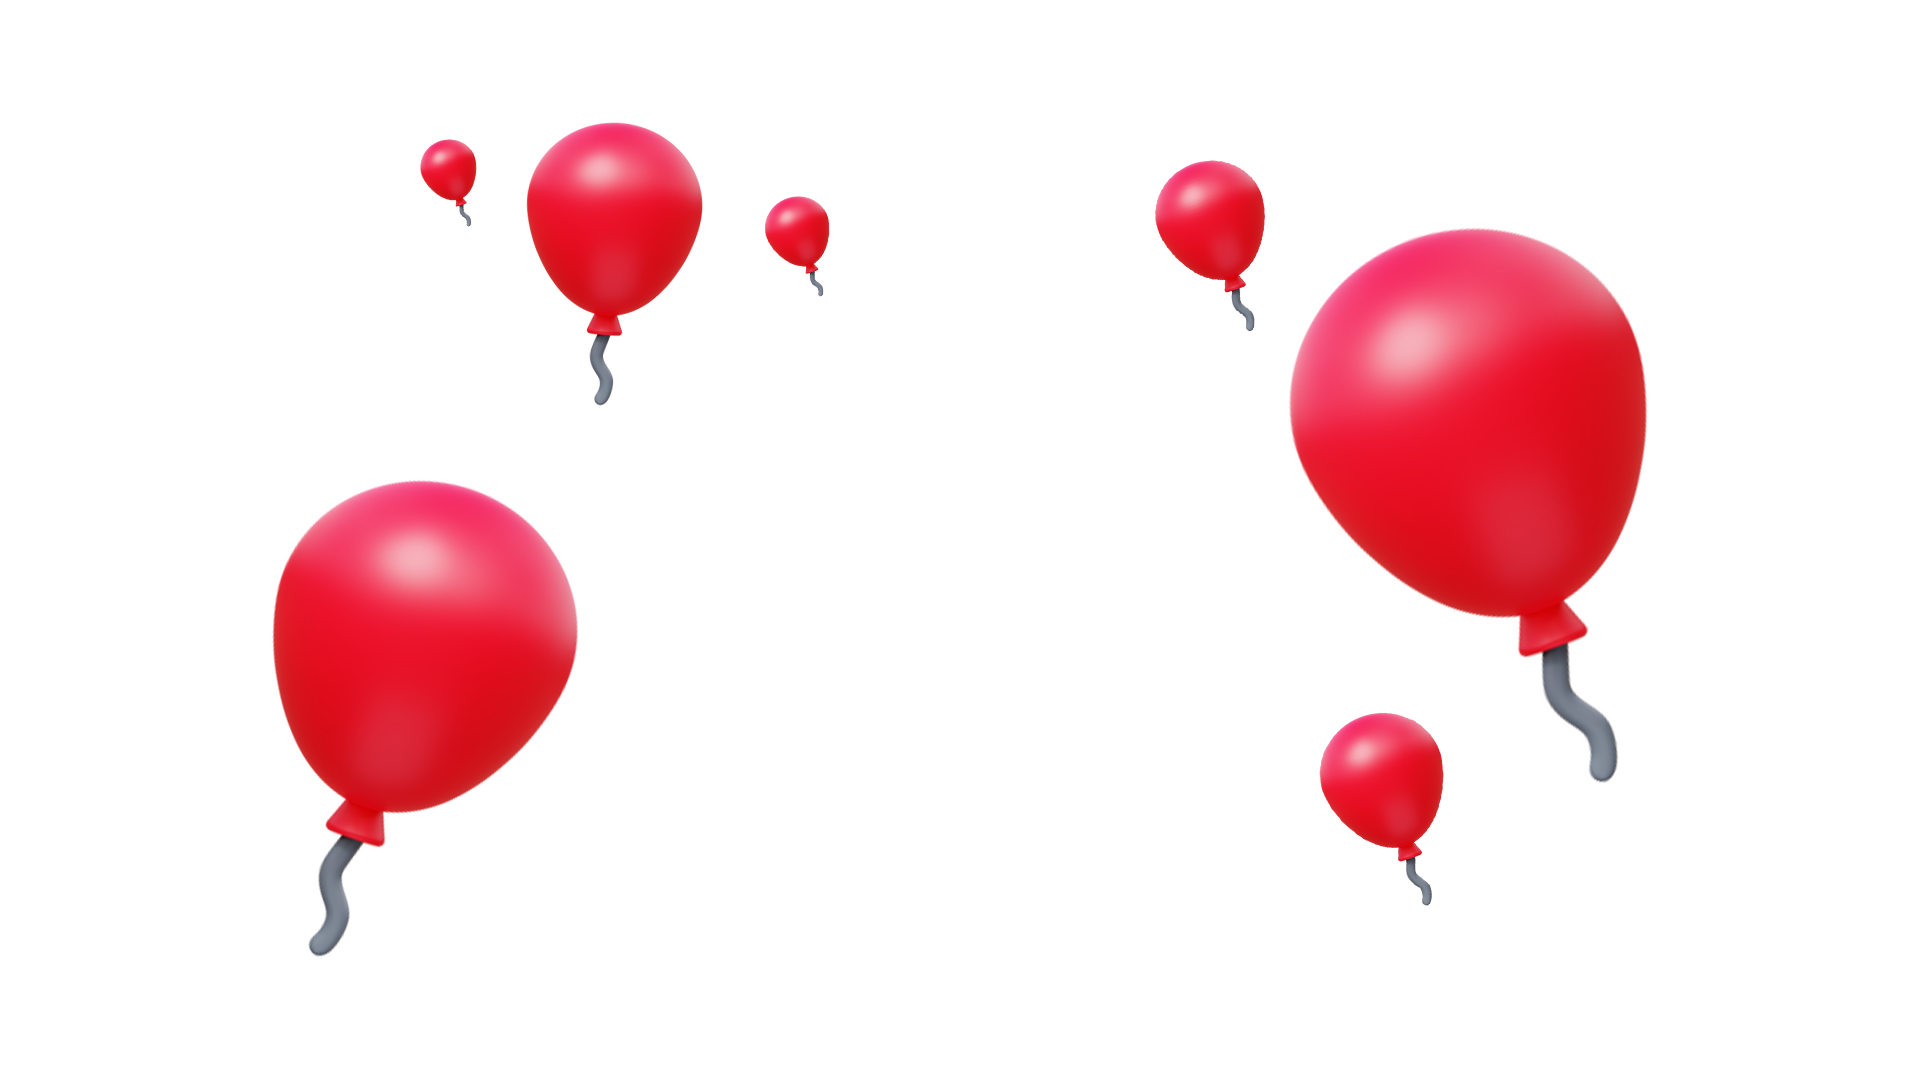
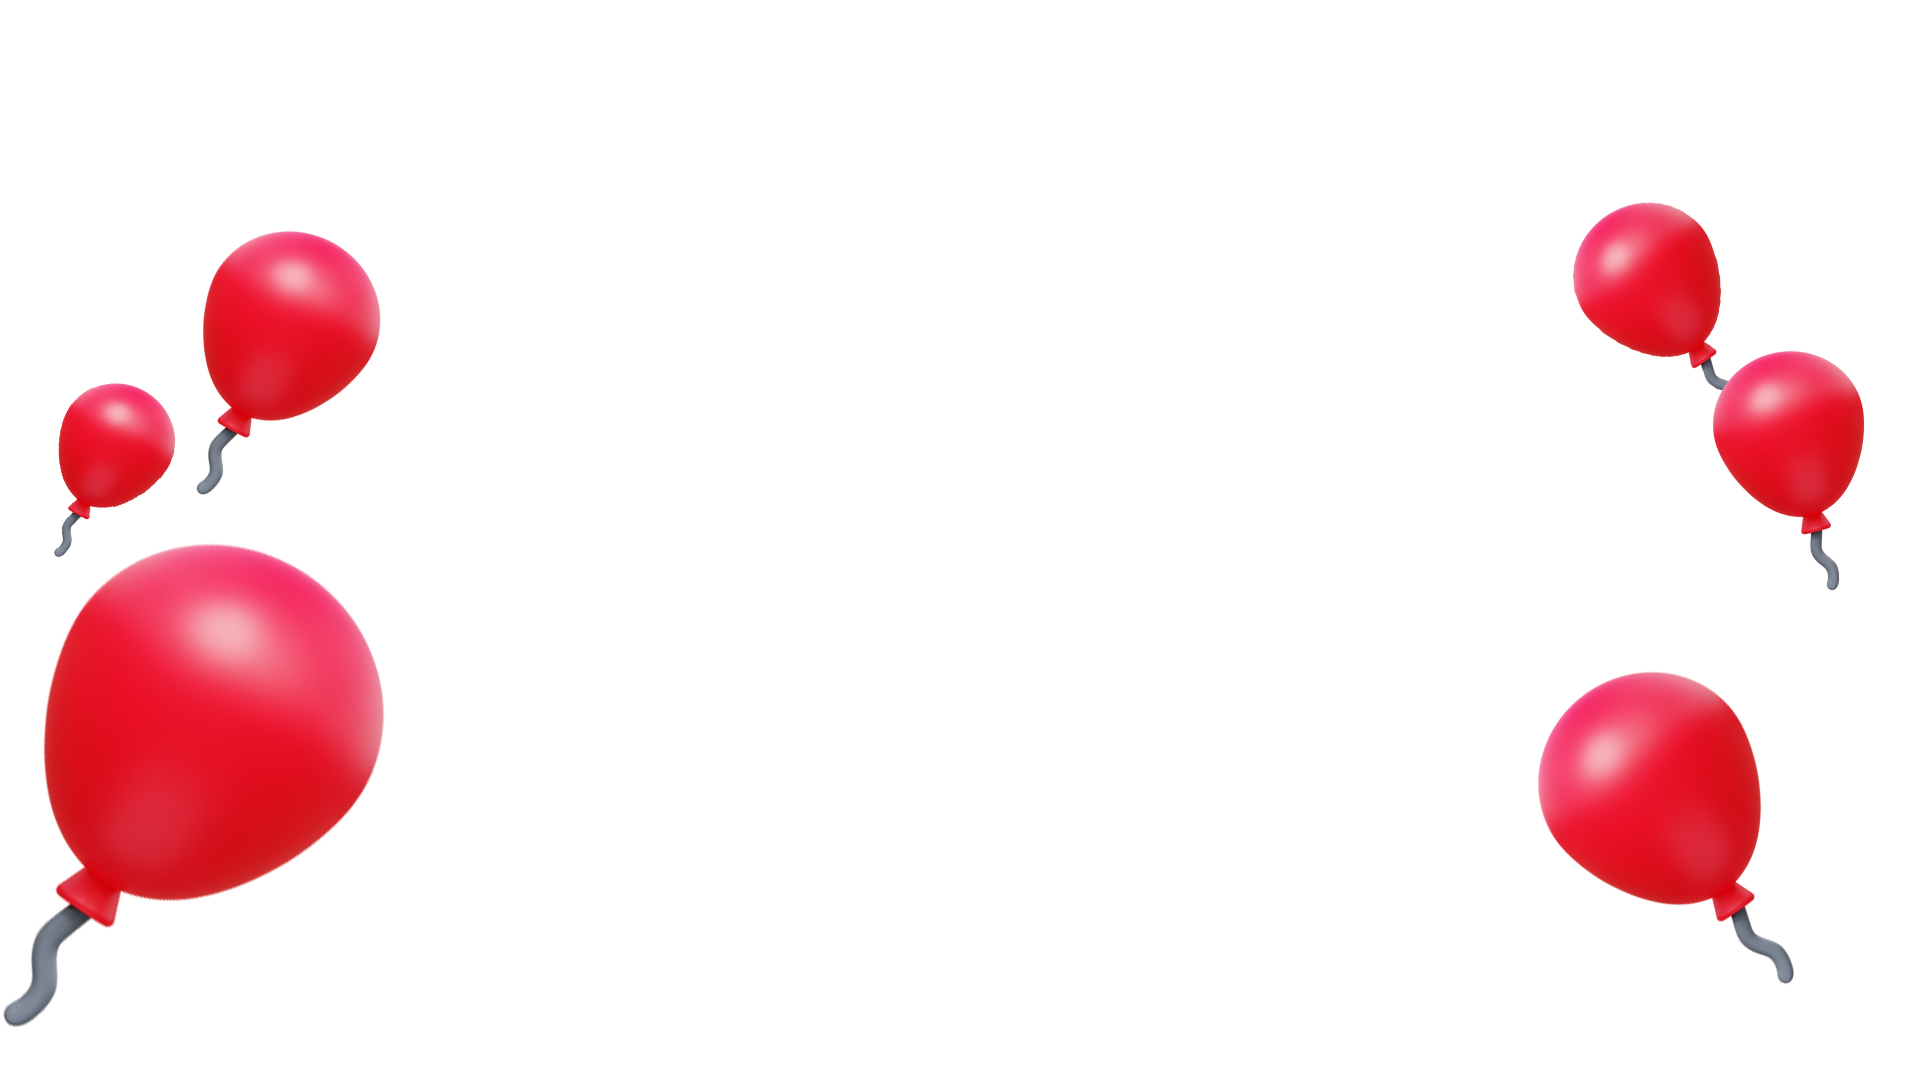
section-page-birthday

diff --git a/style.css b/style.css
@@ -33,7 +33,8 @@ body {
 	background-size: cover;
 	background-attachment: fixed;
 	background-image: url(img/ballon.png);
-	z-index: -10;
+	z-index: 20;
+	transition: 0.5s ease-in;
 }
 
 .wrapper-header {
@@ -41,6 +42,7 @@ body {
 	height: 100vh;
 	justify-content: center;
 	align-items: center;
+	z-index: -10;
 }
 
 .content-header {
@@ -48,8 +50,9 @@ body {
 	justify-content: center;
 	align-items: center;
 	flex-direction: column;
-	width: 800px;
-	height: 400px;
+	width: 90%;
+	max-width: 800px;
+	height: auto;
 }
 
 .container-header .text-header {
@@ -57,11 +60,13 @@ body {
 	justify-content: center;
 	align-items: center;
 	width: 800px;
-	height: 150px;
+	height: auto;
 	font-family: var(--font1);
 	font-size: 2.5rem;
 	color: #fff;
 	text-shadow: 6px 6px 1px #da7297;
+	letter-spacing: 10px;
+	text-align: center;
 }
 
 .button-header {
@@ -94,12 +99,76 @@ body {
 /* Header-End */
 
 /* Content-Start */
-.wrapper-content {
-	height: 100vh;
+.container-content {
+	height: auto;
+	z-index: -10;
 	background-position: center;
 	background-size: cover;
 	background-attachment: fixed;
 	background-image: url(img/ballon.png);
-	z-index: 20;
+	transition: 0.5s ease-in;
+	padding: 20px;
 }
+
+.container-content .wrapper-content {
+	display: flex;
+	justify-content: center;
+	align-items: center;
+	height: 100vh;
+}
+
+.card-content {
+	display: flex;
+	background-color: var(--cwhite);
+	width: 90%;
+	max-width: 600px;
+	height: auto;
+	border-radius: 10px;
+	border: 10px solid var(--cwhite);
+	z-index: -10;
+	box-shadow: 8px 6px 1px #1278b3;
+}
+
+.img-content {
+	border-radius: 10px;
+}
+
+.img-content img {
+	width: 200px;
+	height: 300px;
+	border-radius: 10px 0px 0px 10px;
+}
+
+.text-content {
+	margin: 30px;
+	font-family: var(--font2);
+	text-align: justify;
+}
+
+h5 {
+	margin-top: 5px;
+}
+
 /* Content-End */
+
+@media (max-width: 768px) {
+	.container-header .text-header {
+		font-size: 1.2rem;
+		letter-spacing: 5px;
+	}
+
+	.button-header {
+		width: 120px;
+		height: 35px;
+	}
+
+	.card-content {
+		flex-direction: column;
+		margin: 0;
+	}
+
+	.img-content img {
+		width: 100%;
+		height: 350px;
+	}
+}

diff --git a/index.html b/index.html
@@ -20,10 +20,10 @@
 				<div class="wrapper-header">
 					<div class="content-header">
 						<div class="text-header">
-							<h1>Happy Birtday</h1>
+							<h1>Happy Birthday</h1>
 						</div>
-						<div class="button-header">
-							<a href="">Let's Begin</a>
+						<div class="button-header" id="scrollBtn">
+							<a href="#content">Let's Begin</a>
 						</div>
 					</div>
 				</div>
@@ -34,9 +34,27 @@
 		<!-- Content-Start -->
 		<main>
 			<section class="container-content">
-				<div class="wrapper-content"></div>
+				<div class="wrapper-content">
+					<div class="card-content">
+						<div class="img-content">
+							<img src="img/duck.jpg" />
+						</div>
+						<div class="text-content">
+							<h1>HAPPY BIRTHDAY</h1>
+							<h5 class="dear-content">Dear for me</h5>
+							<p class="message-content" id="content">
+								Hi..🎉 Happy birthday! 🎂 May this day be full of happiness and
+								may all your dreams come true. Keep shining and enjoy every
+								moment! Cheers! 🥳
+							</p>
+							<h5 class="name-content">Reza Arya Irhamilah</h5>
+						</div>
+					</div>
+				</div>
 			</section>
 		</main>
 		<!-- Content-End -->
+
+		<script src="script.js"></script>
 	</body>
 </html>

diff --git a/script.js b/script.js
@@ -1,0 +1,8 @@
+document
+	.getElementById('scrollBtn')
+	.addEventListener('click', function (event) {
+		event.preventDefault();
+
+		const content = document.getElementById('content');
+		content.scrollIntoView({ behavior: 'smooth' });
+	});
